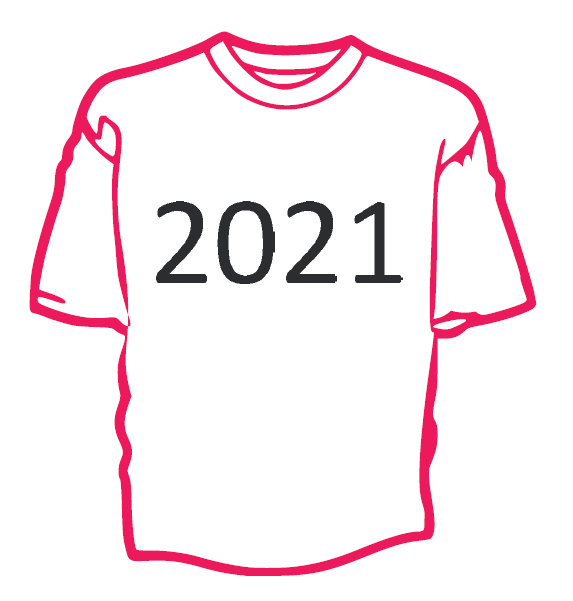
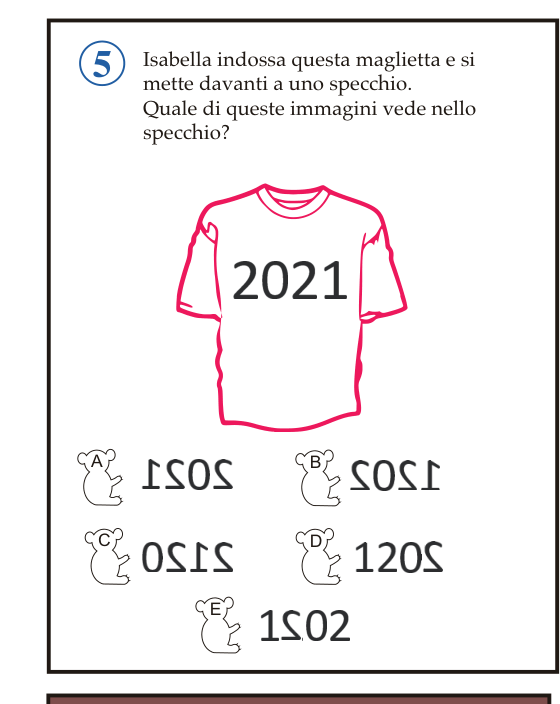
Fix Koala 2021 Q5: immagine completa con tutte le opzioni A-E
La vecchia q05.png mostrava solo la maglietta originale senza le 5
opzioni di risposta (magliette specchiate/ruotate). La nuova immagine
include il box completo della domanda con tutte le opzioni visibili.

Bump versione: 2.7.0 → 2.7.1

Changed region(s): [[0.0304, 0.0, 1.0, 1.0], [0.5161, 0.7488, 0.6071, 0.8386]]

diff --git a/sw.js b/sw.js
@@ -1,5 +1,5 @@
 // Service Worker per PWA Kangourou Trainer
-const CACHE_NAME = 'kangourou-trainer-v2.10.0';
+const CACHE_NAME = 'kangourou-trainer-v2.10.1';
 const urlsToCache = [
   './',
   './index.html',
